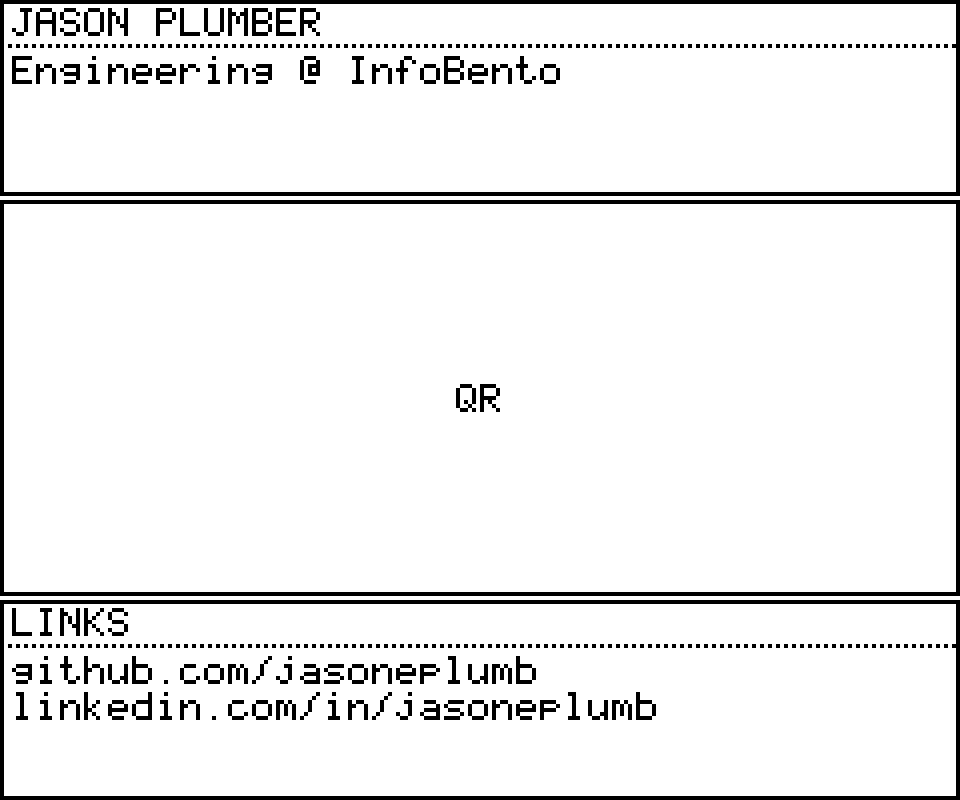
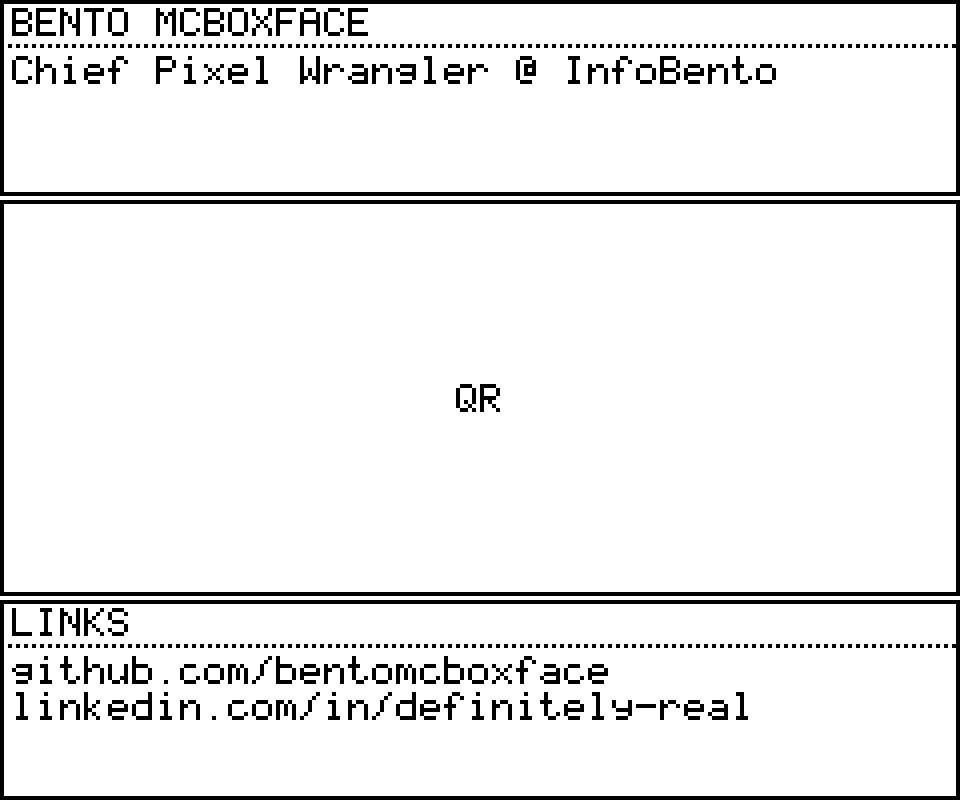
fix: replace personal info in previews with fictional placeholder
Bento McBoxface, Chief Pixel Wrangler @ InfoBento.

Changed region(s): [[0.0, 0.0, 0.375, 0.125], [0.2812, 0.8125, 0.7812, 0.9062], [0.4062, 0.0625, 0.8125, 0.125]]

diff --git a/scripts/generate-previews.ts b/scripts/generate-previews.ts
@@ -80,16 +80,16 @@ const configC: BentoConfig = {
   boxes: [
     {
       id: '1',
-      label: 'Jason Plumber',
+      label: 'Bento McBoxface',
       type: 'text',
-      config: { type: 'text', text: 'Engineering @ InfoBento' },
+      config: { type: 'text', text: 'Chief Pixel Wrangler @ InfoBento' },
     },
     { id: '2', label: 'QR', type: 'qr' },
     {
       id: '3',
       label: 'Links',
       type: 'text',
-      config: { type: 'text', text: 'github.com/jasoneplumb  linkedin.com/in/jasoneplumb' },
+      config: { type: 'text', text: 'github.com/bentomcboxface  linkedin.com/in/definitely-real' },
     },
   ],
   refreshesPerDay: 1,
